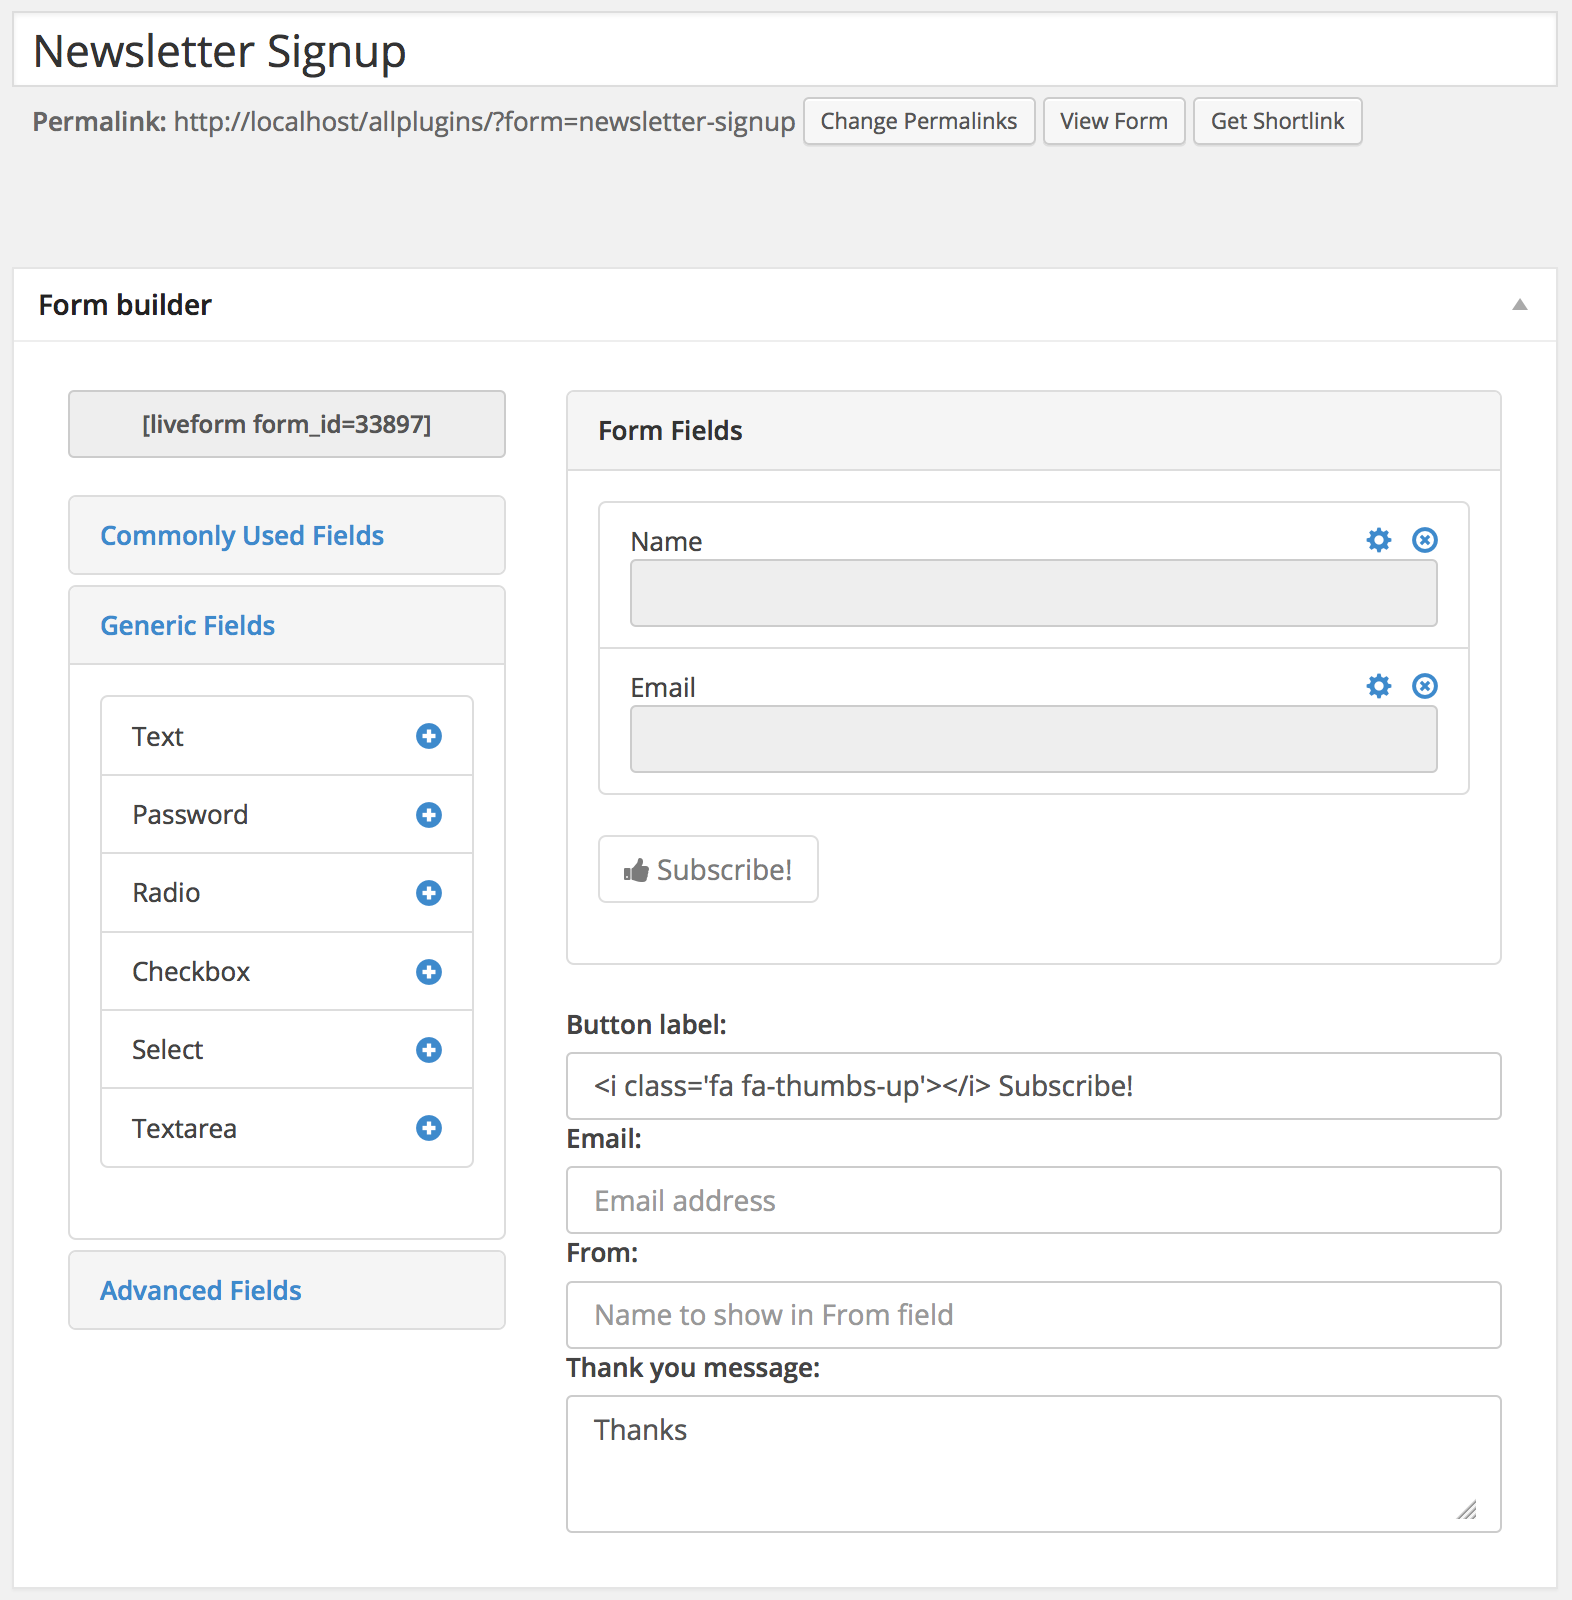
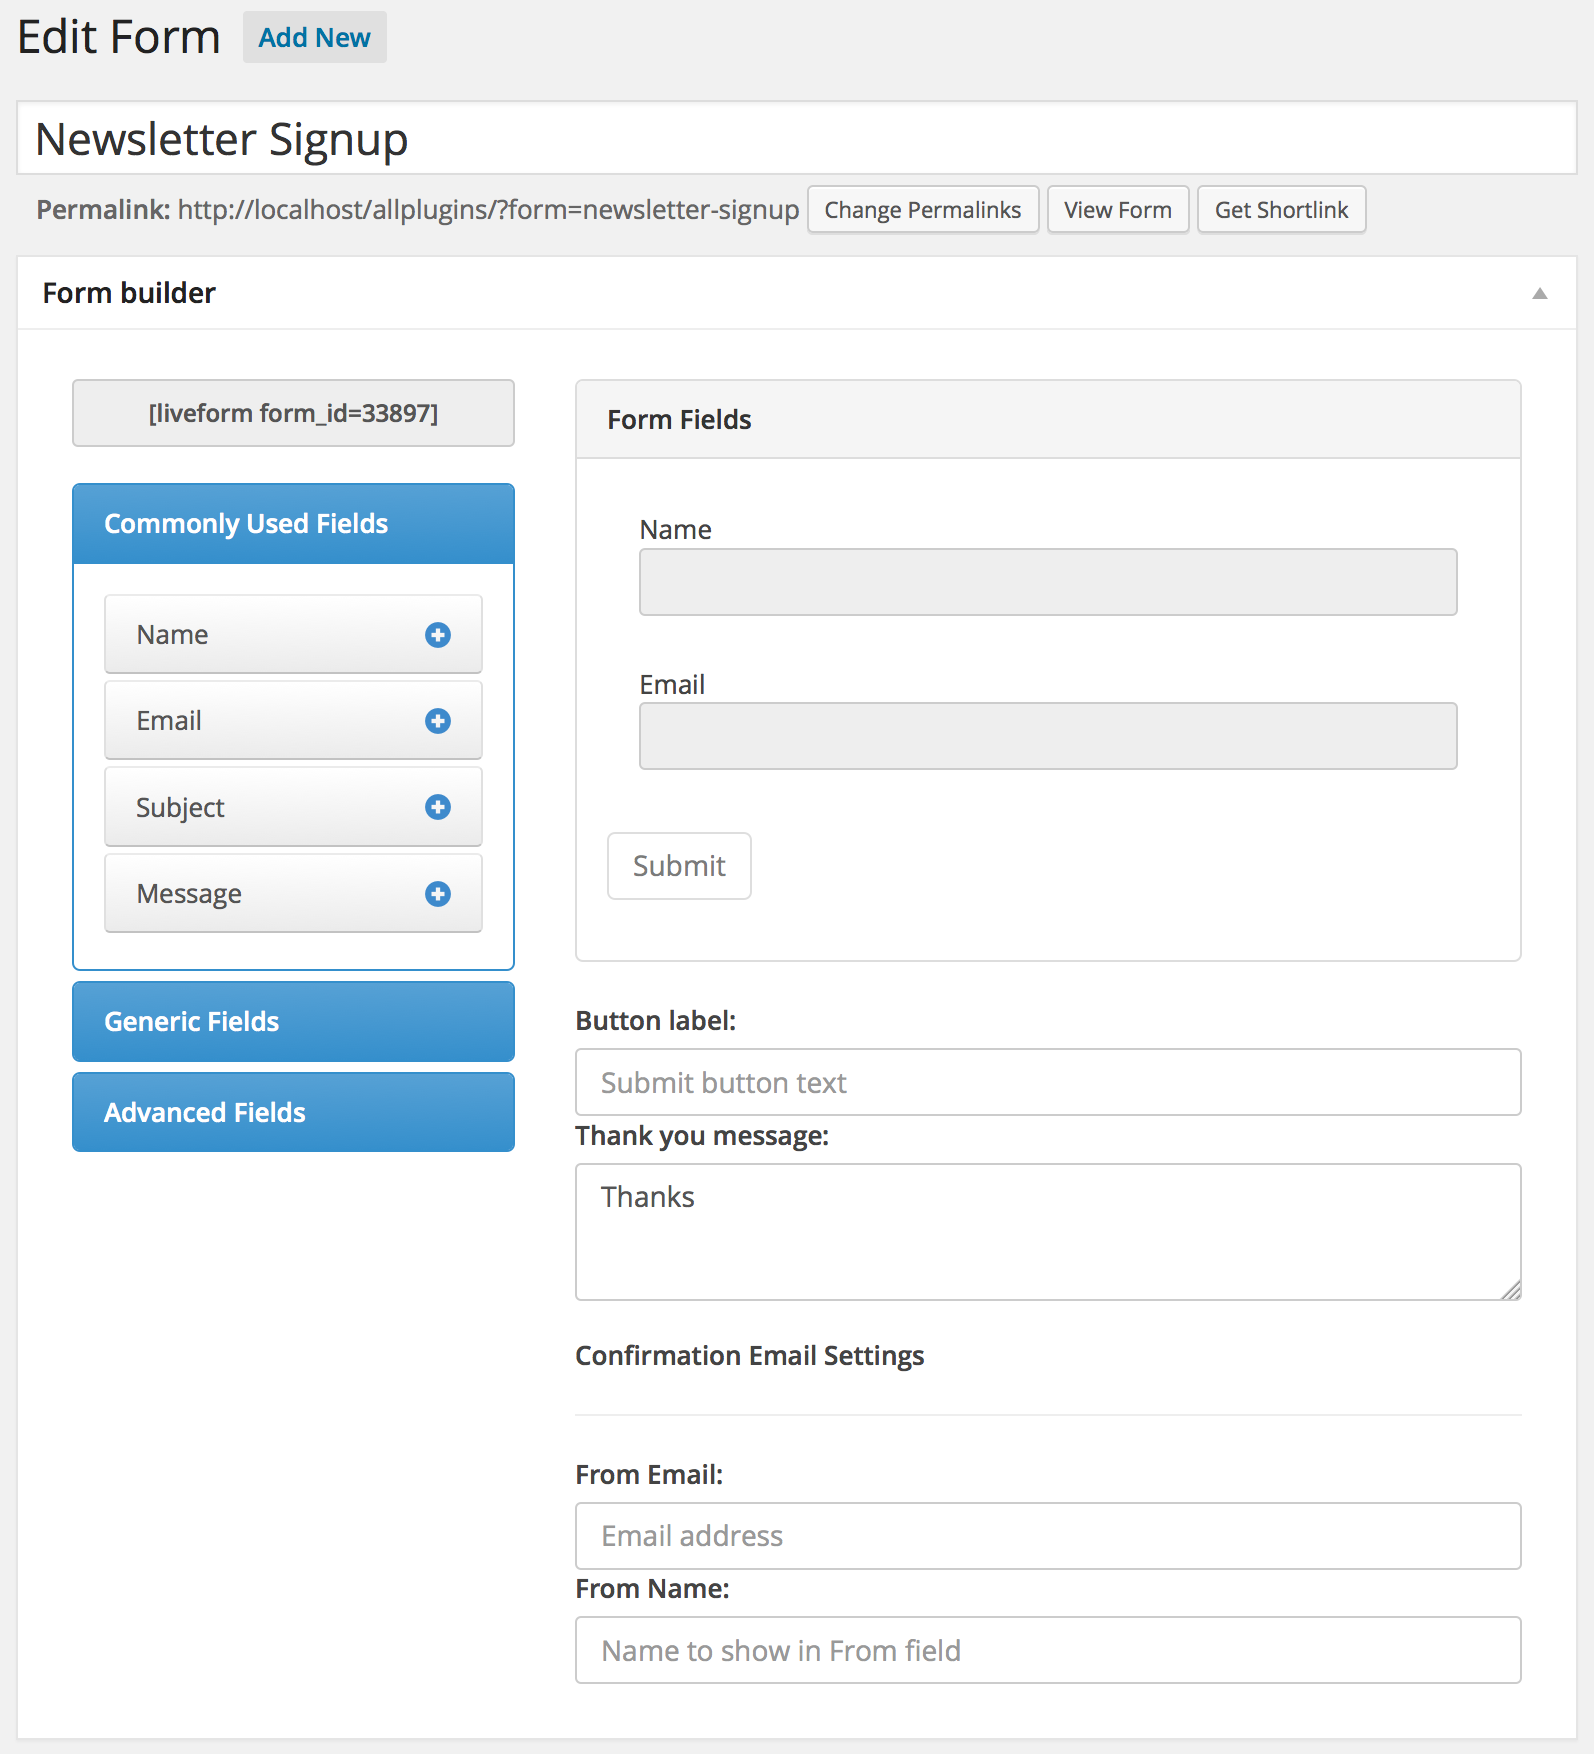
= 1.1.0 = * Upgraded drag and drop options * Upgraded UI
git-svn-id: https://plugins.svn.wordpress.org/liveforms/trunk@907656 b8457f37-d9ea-0310-8a92-e5e31aec5664

diff --git a/views/css/style.css b/views/css/style.css
@@ -1,11 +1,28 @@
+.clear{
+    clear: both;
+}
 .w3eden .form-control{
     box-shadow: none !important;
     border-radius: 3px !important;
 }
 
+.w3eden .ui-state-highlight{
+    border: 0 !important;
+    background: none !important;
+}
+
 .w3eden #selectedfields .list-group-item a .glyphicon{
-    margin-left: 5px;
     margin-top: 1px;
+}
+
+.w3eden #selectedfields .list-group-item a.remove,
+.w3eden #selectedfields .list-group-item a.cog-trigger{
+    visibility: hidden;
+}
+
+.w3eden #selectedfields:hover .list-group-item a.remove,
+.w3eden #selectedfields:hover .list-group-item a.cog-trigger{
+    visibility: visible;
 }
 
 .w3eden .list-group-item .cog h5{
@@ -28,6 +45,177 @@
     top: 3px;
 }
 
-.w3eden .form-group hr{
-    margin: 5px 0 10px 0;
+.panel-body-np{
+    background: #eee;
+}
+
+.panel-body-np .nav-pills a{
+    border-radius: 2px !important;
+    font-size: 9pt;
+    letter-spacing: normal;
+}
+
+.panel-body-np .nav-pills{
+    padding: 15px 0 15px 15px;
+}
+
+.panel-body-np .col-md-9{
+    background: #ffffff;
+    border-left: 1px solid #cccccc;
+}
+
+.panel-body-np .tab-content h3{
+    margin: 10px 0;
+    font-size: 12pt;
+    font-weight: 700;
+}
+
+.panel .panel-heading a{
+    text-decoration: none;
+    outline: none;
+}
+.panel .panel-heading{
+    font-weight: 700 !important;
+}
+.panel-settings .panel-title{
+    font-weight: 700 !important;
+    padding: 3px 0;
+}
+
+.w3eden .panel-settings{
+    border: 0 !important;
+    box-shadow: 0px 1px 1px rgba(0, 0, 0, 0.12);
+}
+
+.w3eden #submit{
+    font-weight: 700;
+    border-radius: 3px;
+}
+
+input.shortcode-code.input-lg{
+    font-size: 12pt !important;
+    font-weight: 200;
+    font-family: 'Courier New';
+    cursor: copy !important;
+    letter-spacing: 1px;
+}
+
+.col-md-9 .tab-content{
+    min-height: 400px;
+    padding-right: 15px;
+    padding-top: 15px;
+}
+
+.nav-pills a{
+    outline: none !important;
+}
+.form-group .description{
+    font-size: 8pt;
+}
+
+.w3eden #allformfields .panel-default {
+    border-color: #3a90ca;
+}
+.w3eden  #allformfields .panel-default > .panel-heading {
+    color: #fff;
+    background-color: #5aa2d3;
+    border-color: #3a90ca;
+}
+.w3eden #allformfields .panel-default > .panel-heading + .panel-collapse .panel-body {
+    border-top-color: #3a90ca;
+}
+.w3eden #allformfields .panel-default > .panel-footer + .panel-collapse .panel-body {
+    border-bottom-color: #3a90ca;
+}
+.w3eden #allformfields .panel-default > .panel-heading {
+    background-image: -webkit-gradient(linear, left 0, left 100%, from(#5aa2d3), to(#3a90ca));
+    background-image: -webkit-linear-gradient(top, #5aa2d3, 0%, #3a90ca, 100%);
+    background-image: -moz-linear-gradient(top, #5aa2d3 0, #3a90ca 100%);
+    background-image: linear-gradient(to bottom, #5aa2d3 0, #3a90ca 100%);
+    background-repeat: repeat-x;
+    filter: progid:DXImageTransform.Microsoft.gradient(startColorstr='#ff5aa2d3', endColorstr='#ff3a90ca', GradientType=0);
+}
+
+.w3eden #allformfields .panel-default .panel-title:focus,
+.w3eden #allformfields .panel-default .panel-title:active,
+.w3eden #allformfields .panel-default .panel-title:hover{
+    color:  #ffffff !important;
+}
+#content-tabs{
+    border:1px solid #dddddd;
+    margin-top: -1px;
+    padding-bottom: 20px;
+}
+
+a:focus,
+a:active{
+    outline:  none !important;
+}
+
+.list-group-item.ui-draggble{
+    z-index: 9999999 !important;
+}
+
+
+.list-group.ui-droppable{
+   min-height: 100px;
+}
+
+.panel{
+    box-shadow: none;
+}
+
+.panel-body .list-group-item{
+    border-radius: 3px !important;
+    margin-bottom: 3px !important;
+}
+
+#selectedfields{
+    box-shadow: none !important;
+}
+#selectedfields .list-group-item{
+    border-color: transparent;
+}
+
+#selectedfields.ui-state-highlight .list-group-item,
+#selectedfields:hover .list-group-item{
+    border-color: #dddddd !important;
+}
+
+#selectedfields:hover .list-group-item:hover{
+    border-color: #aaaaaa !important;
+}
+
+.availablefields{
+    box-shadow: none !important;
+    margin-bottom: 0 !important;
+}
+.availablefields .list-group-item{
+    color: #555;
+    background-color: #fff;
+    background-image: -webkit-gradient(linear, left 0, left 100%, from(#ffffff), to(#ebebeb));
+    background-image: -webkit-linear-gradient(top, #ffffff, 0%, #ebebeb, 100%);
+    background-image: -moz-linear-gradient(top, #ffffff 0, #ebebeb 100%);
+    background-image: linear-gradient(to bottom, #ffffff 0, #ebebeb 100%);
+    background-repeat: repeat-x;
+    border-color: #e0e0e0;
+    border-color: #ebebeb #e0e0e0 #c2c2c2 #e0e0e0;
+    filter: progid:DXImageTransform.Microsoft.gradient(startColorstr='#ffffffff', endColorstr='#ffebebeb', GradientType=0);
+    cursor: move;
+}
+
+.availablefields .list-group-item:hover{
+    color: #555;
+    background-color: #ebebeb;
+    border-color: #c2c2c2;
+
+}
+
+.w3eden .panel a.panel-title{
+    font-size: 10pt !important;
+}
+
+
+.w3eden #allformfields .panel-default > .panel-heading a{
+    color: #ffffff !important;
 }

diff --git a/views/createnew.php b/views/createnew.php
@@ -21,7 +21,7 @@ $fields = $commonfields;
 <div class="w3eden"><br/>
 	<div class="container-fluid">
 		<div class="row">
-			<div class="col-md-4">
+                    <div class="col-md-4" id="allformfields">
                 <input type="text" style="font-weight: 700" class="form-control text-center shortcode-code" readonly="readonly" value="<?php echo "[liveform form_id={$form_post_id}]" ?>"/><br/>
 
                 <div class="panel-group" id="accordion">
@@ -33,7 +33,7 @@ $fields = $commonfields;
 								Used Fields</a></div>
 						<div id="commonfields" class="panel-collapse collapse in">
 							<div class="panel-body">
-								<ul id="availablefields" class="list-group">
+								<ul id="availablefields" class="availablefields dble list-group">
 									<!-- Populating Common Fields list -->
 									<?php foreach ($fields as $key => $data): ?>
 										<li class="list-group-item" for="<?php echo $key; ?>">
@@ -53,7 +53,7 @@ $fields = $commonfields;
 								Fields</a></div>
 						<div id="genericfields" class="panel-collapse collapse">
 							<div class="panel-body">
-								<ul id="availablefields" class="list-group">
+								<ul id="availablefields" class="availablefields dble list-group">
 									<!-- Populating Generic Fields list -->
 									<?php foreach ($generic_fields as $key => $data): ?>
 										<li class="list-group-item" for="<?php echo $key; ?>">
@@ -74,7 +74,7 @@ $fields = $commonfields;
 								Fields</a></div>
 						<div id="advancedfields" class="panel-collapse collapse">
 							<div class="panel-body">
-                                <ul class="list-group" id="availablefields">
+                                <ul class="availablefields list-group" id="availablefields">
                                     <!-- Populating Advanced Fields list -->
                                     <li for="file" class="list-group-item">
                                         <span class="lfi lfi-file"></span> File Upload											<a href="#" title="Available in pro only!"><i class="glyphicon glyphicon-info-sign pull-right ttipf text-warning" title="Available in pro only!"></i></a>
@@ -666,6 +666,7 @@ $fields = $commonfields;
 <!-- Teamplates end -->
 <!-- Engine functions start -->
 <script type="text/javascript">
+var ds = 0;
 function add_field(obj, position) {
     //Add field with form
     if (jQuery(obj).attr('data-options') != undefined)
@@ -678,10 +679,11 @@ function add_field(obj, position) {
         var tmp = jQuery("#template").html();
 
     var ID = obj.attr('rel') + "_" + new Date().getTime();
-    position.html(Mustache.render(tmp, {title: obj.attr('title'), value: obj.attr('rel'), ID: ID}));
-    position.unwrap();
-    //jQuery('#selectedfields li.ui-draggable').after(Mustache.render(tmp, {title: obj.attr('title'), value: obj.attr('rel'), ID: ID}));
-    //position.remove();
+    //position.html(Mustache.render(tmp, {title: obj.attr('title'), value: obj.attr('rel'), ID: ID}));
+    //position.children('li').unwrap();
+    if(ds==1)
+    jQuery('#selectedfields li.ui-sortable-placeholder').after(Mustache.render(tmp, {title: obj.attr('title'), value: obj.attr('rel'), ID: ID}));
+    position.remove();
 
     jQuery('.form-field-label').on('keyup', function () {
         jQuery(jQuery(this).attr('data-target')).html(jQuery(this).val());
@@ -748,22 +750,30 @@ function add_field(obj, position) {
 
 jQuery(function ($) {
 
-//    $('#availablefields li').draggable({
-//        connectToSortable: "#selectedfields",
-//        helper: "clone",
-//        revert: "invalid"
-//    });
+$('.dble li').draggable({
+        start: function(){ ds = 1; },
+        connectToSortable: "#selectedfields",
+        helper: "clone",
+        revert: "invalid"
+    });
 
     
-//    $("#selectedfields").droppable({
-//        activeClass: "ui-state-highlight",
-//        drop: function (event, ui) {
-//            var position = ui.draggable;
-//            var obj = position.find("a.add");
-//            add_field(obj, position);
-//            //return false;
-//        }
-//    });
+    $("#selectedfields").droppable({
+        activeClass: "ui-state-highlight",
+        drop: function (event, ui) {
+            var position = ui.draggable;
+            console.log(position);
+            var obj = position.find("a.add");
+            if(ds==1)
+            add_field(obj, position);
+           // $( this ).find( ".placeholder" ).remove();
+           // $( "<li></li>" ).text( 'ok' ).appendTo( this );
+           // alert(1);
+          //  $('#selectedfields .list-group-item.ui-draggable').append()
+            ds = 0;
+            return false;
+        }
+    });
 	$("#selectedfields").sortable();
     $('#availablefields .add').click(function () {
         //Add field with form

diff --git a/liveforms.php b/liveforms.php
@@ -4,7 +4,7 @@
   Plugin URI: http://liveform.org
   Description: Live Form - Drag and Drop Form Builder For WordPress.
   Author: Shaon
-  Version: 1.0.3
+  Version: 1.1.0
   Author URI: http://liveform.org
  */
 
